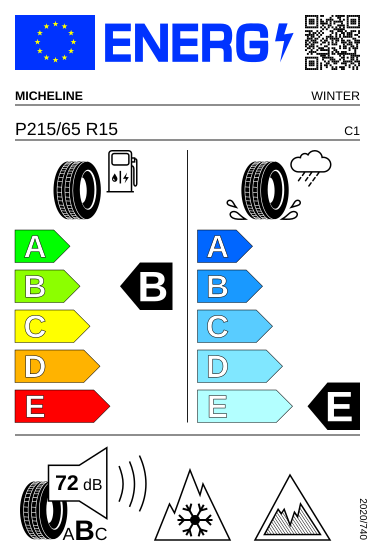
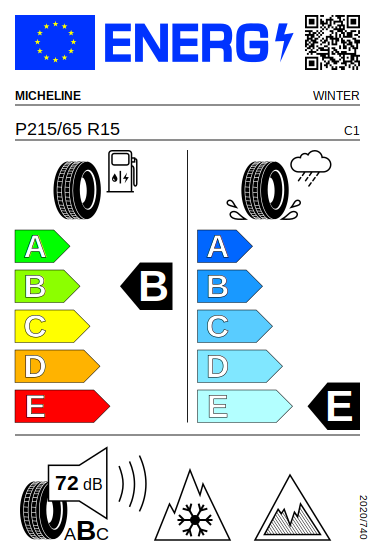
Fix QR-code aliasing by using path instead of rect

diff --git a/src/label.c b/src/label.c
@@ -69,29 +69,38 @@ static char *strrep_x(char *data, const char *src, const char *dst) {
  * allocated with malloc(3), and shall be freed with free(3). */
 static char *create_qrcode(unsigned int version, const char *text) {
 
-	const char template[] = "<use xlink:href=\"#p\" x=\"%zu\" y=\"%zu\"/>";
+	const char template[] = "M%zu,%zuh1v%zuh-1z";
 	unsigned char *modules = malloc(qrcode_getBufferSize(version));
-	char *tmp, *qrcode = NULL;
-	size_t pixels = 0;
+	char *p, *qrcode = NULL;
 	size_t x, y;
 	QRCode qr;
 
 	if (qrcode_initText(&qr, modules, version, ECC_LOW, text) != 0)
 		goto fail;
 
-	for (x = 0; x < qr.size; x++)
-		for (y = 0; y < qr.size; y++)
-			if (qrcode_getModule(&qr, x, y))
-				pixels++;
-
-	if ((qrcode = malloc(sizeof(template) * pixels)) == NULL)
+	/* The worst case scenario is that the QR code is half empty, so the
+	 * total max number of rectangles is: qr.size * qr.size / 2. */
+	if ((qrcode = p = malloc(sizeof(template) * qr.size * qr.size / 2)) == NULL)
 		goto fail;
 
-	tmp = qrcode;
-	for (x = 0; x < qr.size; x++)
-		for (y = 0; y < qr.size; y++)
-			if (qrcode_getModule(&qr, x, y))
-				tmp += sprintf(tmp, template, x, y);
+	p += sprintf(p, "<path d=\"");
+
+	for (x = 0; x < qr.size; x++) {
+		size_t start = 0, length = 0;
+		for (y = 0; y < qr.size; y++) {
+			bool ok = qrcode_getModule(&qr, x, y);
+			if (ok && length == 0)
+				start = y;
+			if (ok)
+				length++;
+			if (length != 0 && (!ok || y + 1 == qr.size)) {
+				p += sprintf(p, template, x, start, length);
+				length = 0;
+			}
+		}
+	}
+
+	p += sprintf(p, "\"/>");
 
 fail:
 	free(modules);
